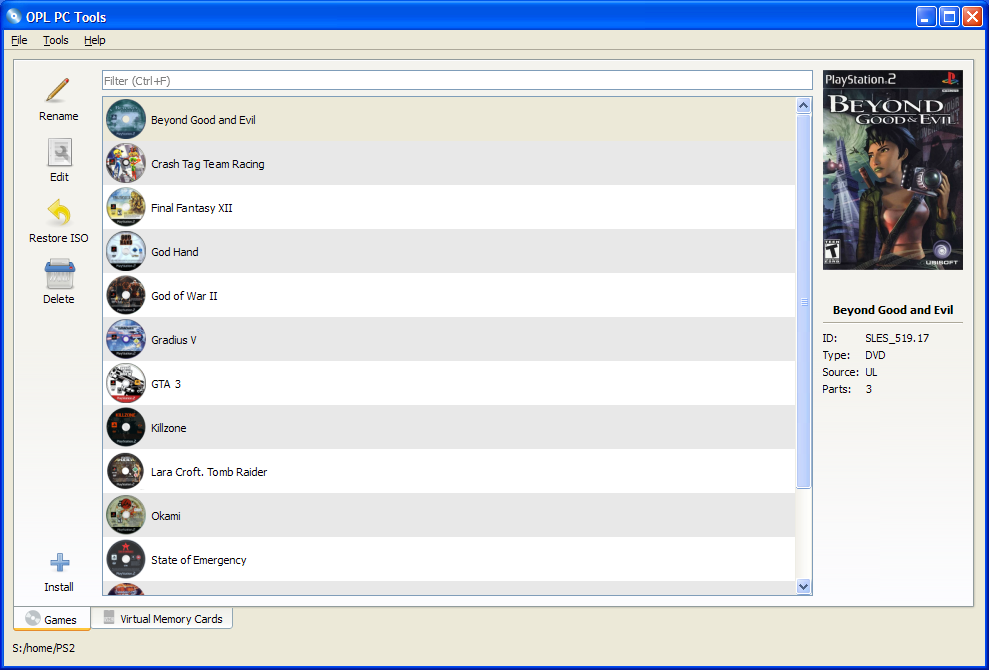
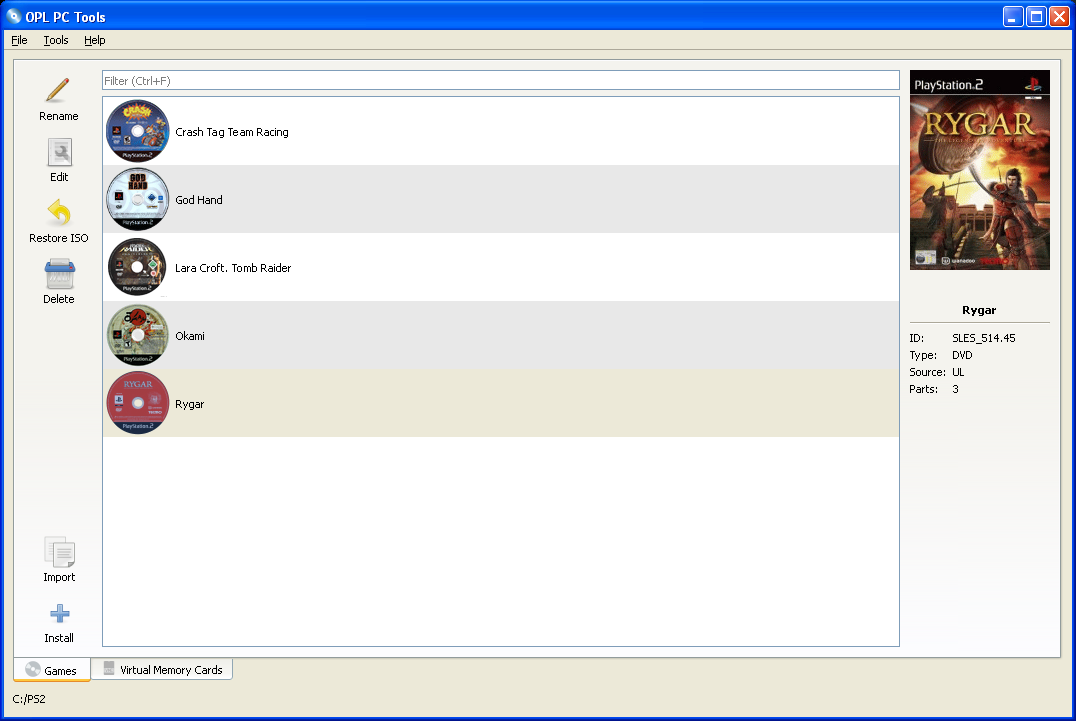
Windows XP scrennshots

Changed region(s): [[0.0, 0.0, 1.0, 1.0], [0.9707, 0.9851, 1.0, 1.0]]

diff --git a/README.md b/README.md
@@ -28,6 +28,8 @@ With OPL PC Tools you can:
 
 ![OPL PC Tools game installation](screenshots/Install.png)
 
+![OPL PC Tools game installation](screenshots/Install_WindowsXP.png)
+
 ![OPL PC Tools art manager](screenshots/Arts.png)
 
 ![OPL PC Tools game config](screenshots/GameConfig.png)
